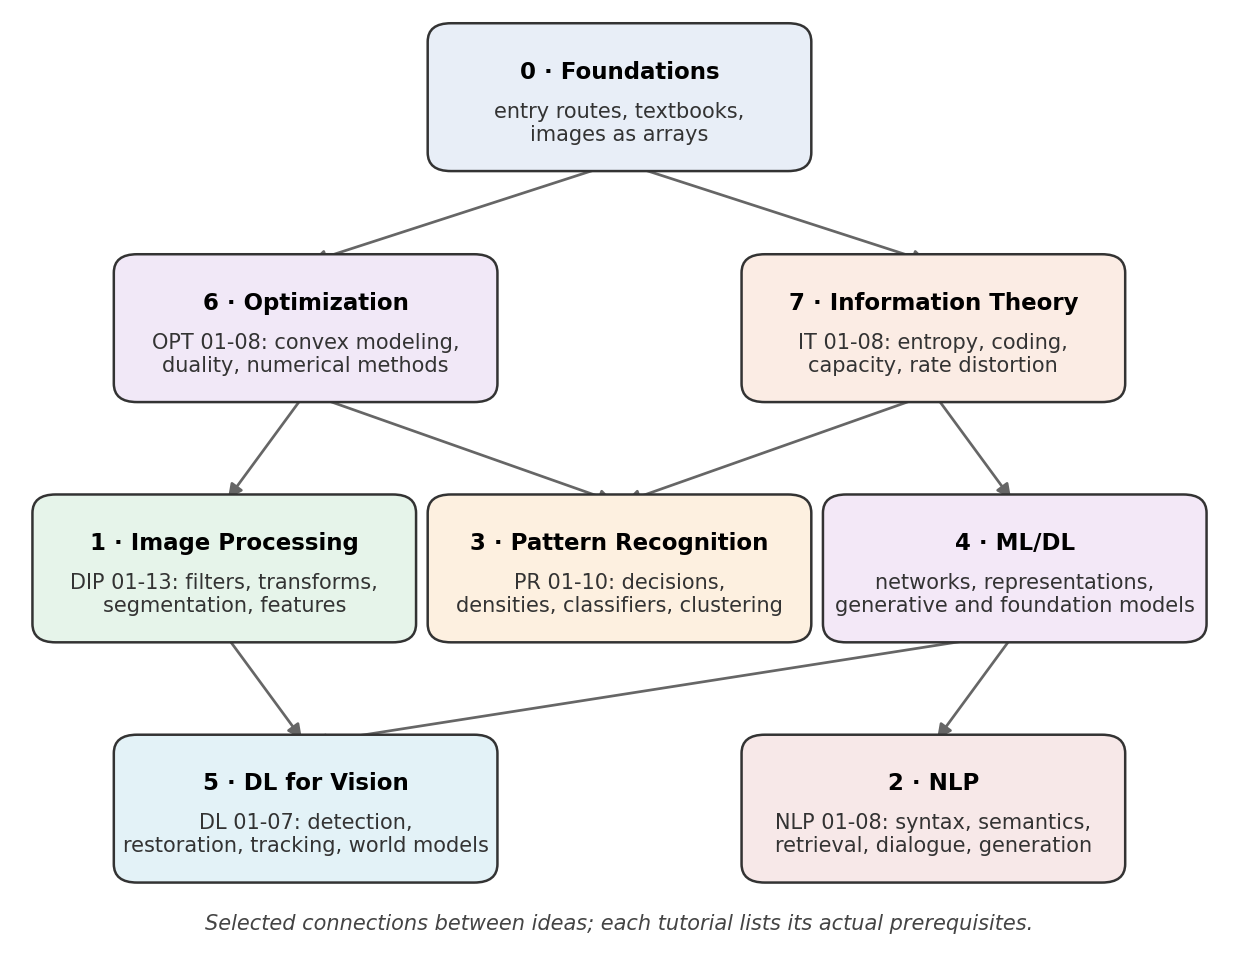
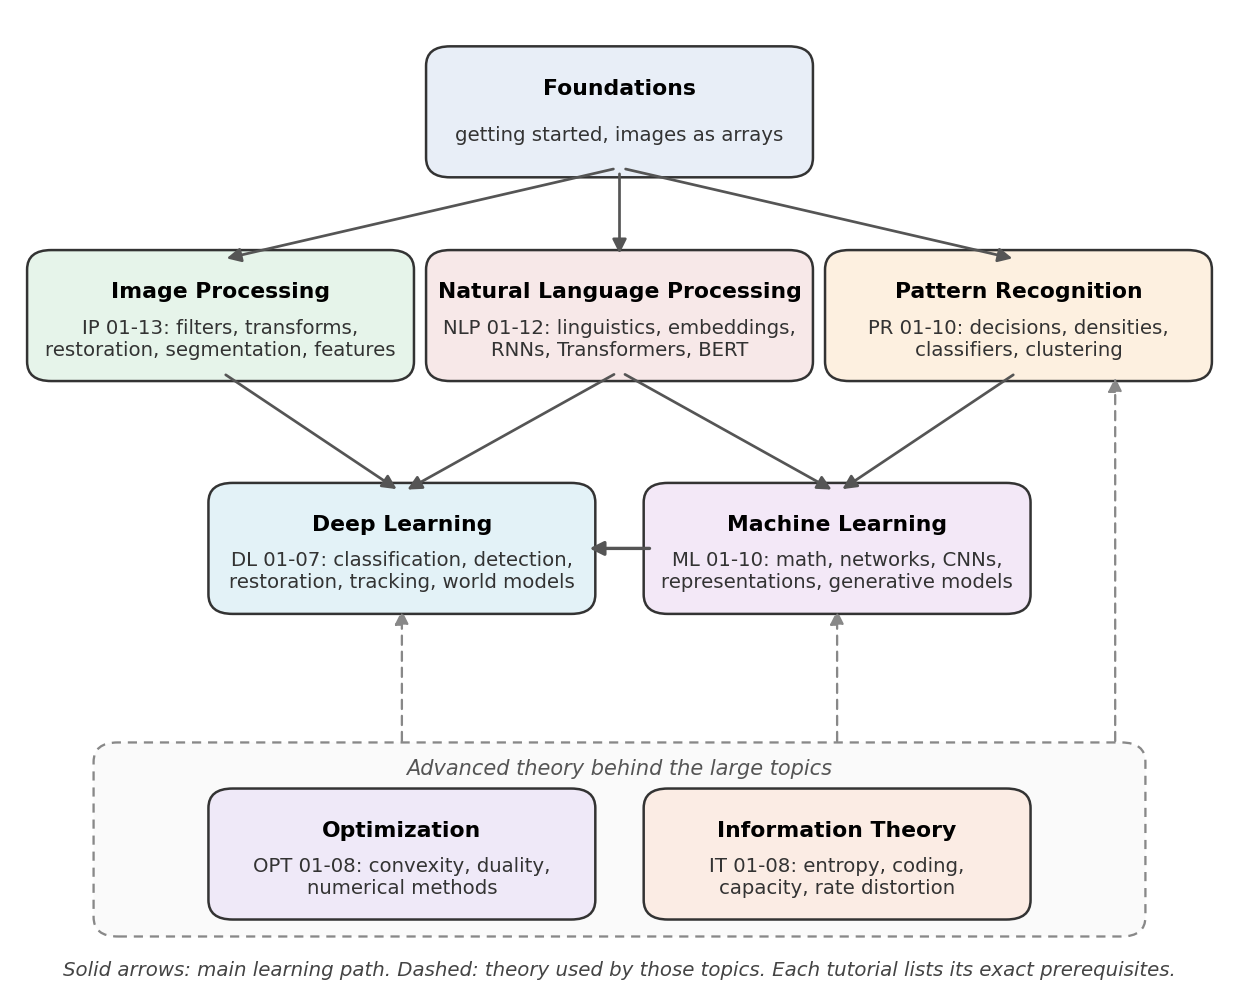
Redraw the track map and align track names
- Getting started: Figure 1 now reads in four layers (Foundations;
  entry tracks IP, NLP and PR; Machine Learning feeding Deep Learning;
  Optimization and Information Theory as the theory behind them). The
  track table, NLP row and language path match the new layout.
- Track labels are now "Machine Learning" and "Deep Learning"
  (機器學習 / 深度學習) instead of "ML/DL" and "DL for Vision".
- README and AGENTS.md describe the eight tracks and the IP/NLP/... NN
  naming rule.

Claude-Session: https://claude.ai/code/session_01YGujEGZkRxijPAC81SHt5G

Changed region(s): [[0.0, 0.0, 0.9814, 0.7303], [0.0613, 0.7303, 0.9508, 0.9738], [0.0613, 0.7912, 0.092, 0.8216]]

diff --git a/src/i18n/ui.ts b/src/i18n/ui.ts
@@ -25,8 +25,8 @@ const en = {
   'track.foundations': 'Foundations',
   'track.image-processing': 'Image Processing',
   'track.pattern-recognition': 'Pattern Recognition',
-  'track.ml': 'ML/DL',
-  'track.deep-learning': 'DL for Vision',
+  'track.ml': 'Machine Learning',
+  'track.deep-learning': 'Deep Learning',
   'track.nlp': 'NLP',
   'track.optimization': 'Optimization',
   'track.information-theory': 'Information Theory',
@@ -50,7 +50,7 @@ const en = {
   'blog.original': 'Originally published on',
   'blog.updated': 'Updated',
   'learn.title': 'Learn',
-  'learn.lede': 'Eight tracks covering foundations, image processing, language, pattern recognition, ML/DL, vision, optimization and information theory. Follow a track in order, or use the prerequisites to choose your starting point.',
+  'learn.lede': 'Eight tracks covering foundations, image processing, language, pattern recognition, machine learning, deep learning, optimization and information theory. Follow a track in order, or use the prerequisites to choose your starting point.',
   'playground.title': 'Playground',
   'playground.lede': 'Every interactive demo from the tutorials, in one place.',
   'search.title': 'Search',
@@ -82,8 +82,8 @@ const zhTw: Record<Key, string> = {
   'track.foundations': '基礎',
   'track.image-processing': '影像處理',
   'track.pattern-recognition': '圖形識別',
-  'track.ml': '機器學習／深度學習',
-  'track.deep-learning': '視覺深度學習',
+  'track.ml': '機器學習',
+  'track.deep-learning': '深度學習',
   'track.nlp': '自然語言處理',
   'track.optimization': '最佳化',
   'track.information-theory': '資訊理論',
@@ -107,7 +107,7 @@ const zhTw: Record<Key, string> = {
   'blog.original': '原文發表於',
   'blog.updated': '更新於',
   'learn.title': '學習',
-  'learn.lede': '八個單元涵蓋基礎、影像處理、語言、圖形識別、機器學習／深度學習、視覺、最佳化與資訊理論。可以依序閱讀，或依先備知識選擇起點。',
+  'learn.lede': '八個單元涵蓋基礎、影像處理、語言、圖形識別、機器學習、深度學習、最佳化與資訊理論。可以依序閱讀，或依先備知識選擇起點。',
   'playground.title': '互動實驗',
   'playground.lede': '所有教學中的互動示範，集中在這裡。',
   'search.title': '搜尋',

diff --git a/scripts/figures/getting_started_extra.py b/scripts/figures/getting_started_extra.py
@@ -1,4 +1,8 @@
 """Eight-track map for foundations/getting-started; synthetic original diagram.
+
+Layout: Foundations -> the three entry tracks (IP, NLP, PR) -> ML -> DL, with Optimization and
+Information Theory drawn underneath as the advanced theory that supports the large topics.
+
 Run: .venv/bin/python scripts/figures/getting_started_extra.py
 Writes only src/assets/foundations/getting-started/.
 """
@@ -11,34 +15,64 @@ from matplotlib.patches import FancyArrowPatch, FancyBboxPatch
 OUT = Path(__file__).resolve().parents[2] / "src/assets/foundations/getting-started"
 OUT.mkdir(parents=True, exist_ok=True)
 plt.rcParams.update({"font.size": 11})
+
+W, H = .30, .115
 BOXES = {
-    "found": ("0 · Foundations", "entry routes, textbooks,\nimages as arrays", .5, .91, "#e8eef7"),
-    "opt": ("6 · Optimization", "OPT 01-08: convex modeling,\nduality, numerical methods", .23, .66, "#f1e8f7"),
-    "it": ("7 · Information Theory", "IT 01-08: entropy, coding,\ncapacity, rate distortion", .77, .66, "#fbece4"),
-    "dip": ("1 · Image Processing", "DIP 01-13: filters, transforms,\nsegmentation, features", .16, .40, "#e6f4ea"),
-    "pr": ("3 · Pattern Recognition", "PR 01-10: decisions,\ndensities, classifiers, clustering", .5, .40, "#fdf0e0"),
-    "ml": ("4 · ML/DL", "networks, representations,\ngenerative and foundation models", .84, .40, "#f3e8f7"),
-    "dl": ("5 · DL for Vision", "DL 01-07: detection,\nrestoration, tracking, world models", .23, .14, "#e3f2f7"),
-    "nlp": ("2 · NLP", "NLP 01-08: syntax, semantics,\nretrieval, dialogue, generation", .77, .14, "#f7e8e8"),
+    "found": ("Foundations", "getting started, images as arrays", .50, .90, "#e8eef7"),
+    "ip": ("Image Processing", "IP 01-13: filters, transforms,\nrestoration, segmentation, features", .17, .69, "#e6f4ea"),
+    "nlp": ("Natural Language Processing", "NLP 01-12: linguistics, embeddings,\nRNNs, Transformers, BERT", .50, .69, "#f7e8e8"),
+    "pr": ("Pattern Recognition", "PR 01-10: decisions, densities,\nclassifiers, clustering", .83, .69, "#fdf0e0"),
+    "ml": ("Machine Learning", "ML 01-10: math, networks, CNNs,\nrepresentations, generative models", .68, .45, "#f3e8f7"),
+    "dl": ("Deep Learning", "DL 01-07: classification, detection,\nrestoration, tracking, world models", .32, .45, "#e3f2f7"),
+    "opt": ("Optimization", "OPT 01-08: convexity, duality,\nnumerical methods", .32, .135, "#efe9f8"),
+    "it": ("Information Theory", "IT 01-08: entropy, coding,\ncapacity, rate distortion", .68, .135, "#fbece4"),
 }
-EDGES = [("found", "opt"), ("found", "it"), ("opt", "dip"), ("opt", "pr"),
-         ("it", "pr"), ("it", "ml"), ("dip", "dl"), ("ml", "dl"), ("ml", "nlp")]
-W, H = .31, .14
-fig, ax = plt.subplots(figsize=(10.4, 8.0))
-ax.set(xlim=(-.02, 1.02), ylim=(0, 1))
+SOLID = [("found", "ip"), ("found", "nlp"), ("found", "pr"),
+         ("ip", "dl"), ("pr", "ml"), ("nlp", "ml"), ("nlp", "dl")]
+
+fig, ax = plt.subplots(figsize=(10.4, 8.4))
+ax.set(xlim=(0, 1), ylim=(0, 1))
 ax.axis("off")
-for a,b in EDGES:
-    xa,ya=BOXES[a][2:4]; xb,yb=BOXES[b][2:4]
-    ax.add_patch(FancyArrowPatch((xa,ya-H/2), (xb,yb+H/2), arrowstyle="-|>",
-                                mutation_scale=14, lw=1.3, color="#666666", shrinkA=3, shrinkB=3))
+
+
+def top(k):
+    return BOXES[k][2], BOXES[k][3] + H / 2
+
+
+def bottom(k):
+    return BOXES[k][2], BOXES[k][3] - H / 2
+
+
+def arrow(p, q, **kw):
+    ax.add_patch(FancyArrowPatch(p, q, arrowstyle="-|>", mutation_scale=14, shrinkA=3, shrinkB=3, zorder=3, **kw))
+
+
 for title, sub, x, y, colour in BOXES.values():
-    ax.add_patch(FancyBboxPatch((x-W/2,y-H/2),W,H,
-                               boxstyle="round,pad=0.01,rounding_size=0.02",
-                               fc=colour,ec="#333333",lw=1.2))
-    ax.text(x,y+.028,title,ha="center",va="center",weight="bold",fontsize=11)
-    ax.text(x,y-.027,sub,ha="center",va="center",fontsize=10,color="#333333")
-ax.text(.5,.005,"Selected connections between ideas; each tutorial lists its actual prerequisites.",
-        ha="center",va="bottom",fontsize=10,style="italic",color="#444444")
+    ax.add_patch(FancyBboxPatch((x - W / 2, y - H / 2), W, H, boxstyle="round,pad=0.01,rounding_size=0.02",
+                                fc=colour, ec="#333333", lw=1.2))
+    ax.text(x, y + .024, title, ha="center", va="center", weight="bold", fontsize=10.5)
+    ax.text(x, y - .024, sub, ha="center", va="center", fontsize=9.5, color="#333333")
+
+for a, b in SOLID:
+    arrow(bottom(a), top(b), lw=1.3, color="#555555")
+# ML -> DL, side by side (ML on the right feeds DL on the left).
+arrow((BOXES["ml"][2] - W / 2, BOXES["ml"][3]), (BOXES["dl"][2] + W / 2, BOXES["dl"][3]), lw=1.6, color="#555555")
+
+# Theory band: a dashed container around OPT and IT, supporting the large topics above.
+band_y0, band_y1 = .055, .245
+ax.add_patch(FancyBboxPatch((.07, band_y0), .86, band_y1 - band_y0, boxstyle="round,pad=0.005,rounding_size=0.02",
+                            fc="#fafafa", ec="#888888", lw=1.1, ls=(0, (4, 3)), zorder=0.5))
+ax.text(.5, band_y1 - .012, "Advanced theory behind the large topics", ha="center", va="top",
+        fontsize=10, style="italic", color="#555555")
+for target, x in [("dl", .32), ("ml", .68)]:
+    arrow((x, band_y1), bottom(target), lw=1.1, color="#888888", ls=(0, (4, 3)))
+arrow((.91, band_y1), (.91, BOXES["pr"][3] - H / 2), lw=1.1, color="#888888", ls=(0, (4, 3)))
+
+
+
+ax.text(.5, .005, "Solid arrows: main learning path. Dashed: theory used by those topics. "
+        "Each tutorial lists its exact prerequisites.", ha="center", va="bottom", fontsize=9.5,
+        style="italic", color="#444444")
 fig.savefig(OUT / "track-map.png", dpi=150, bbox_inches="tight", facecolor="white")
 plt.close(fig)
 print("wrote", OUT / "track-map.png")

diff --git a/README.md b/README.md
@@ -16,14 +16,14 @@ The curriculum has eight tracks in English and Traditional Chinese. Start with
 
 | Track | Coverage |
 | --- | --- |
-| 0 · Foundations | Entry paths, textbook selection, and images as arrays |
-| 1 · Image Processing | The existing DIP sequence, from intensity transforms to pattern classification |
-| 2 · NLP | Eight chapters based on Hagiwara and McRoy: applications, classification, syntax, semantics, language models, retrieval, dialogue, generation and deployment |
-| 3 · Pattern Recognition | A complete course based on Theodoridis/Koutroumbas, *Pattern Recognition* (4th ed.), and Bishop, *Pattern Recognition and Machine Learning* |
-| 4 · ML/DL | ML basics; linear algebra; probability/information; numerical computation; feedforward, convolutional, recurrent and recursive networks; selective state-space models and visual Mamba; transformers; representation learning; factor models and autoencoders; VAEs/GANs/flows; diffusion/flow matching, JiT and representation autoencoders; pretrained image/video generators; autoregression; foundation models; evaluation/deployment |
-| 5 · DL for Vision | Classification, detection, restoration, low-light enhancement, tracking, and world models |
-| 6 · Optimization | Eight chapters based on Boyd and Vandenberghe: convex sets/functions, problem formulation, duality, estimation, gradient/Newton methods, constrained solvers and applications |
-| 7 · Information Theory | Eight chapters based on Cover and Thomas: entropy, typicality, source coding, channel capacity, Gaussian channels, rate distortion, statistical decisions and networks |
+| Foundations (start) | Entry paths, textbook selection, and images as arrays |
+| Image Processing (IP 01–13, entry) | Thirteen tutorials following the chapter order of Gonzalez & Woods, from intensity transforms to pattern classification |
+| Natural Language Processing (NLP 01–12, entry) | Twelve tutorials following the course syllabus: introduction, linguistic essentials, neural networks for NLP, lexical semantics and word embeddings, RNNs, sequence labeling (POS tagging, information extraction), attention and Transformers, seq2seq (machine translation, chatbots), language modeling and generation, BERT, classification with BERT (sentiment, NLI), and syntactic and semantic tasks |
+| Pattern Recognition (PR 01–10, entry) | A complete course based on Theodoridis/Koutroumbas, *Pattern Recognition* (4th ed.), and Bishop, *Pattern Recognition and Machine Learning* |
+| Machine Learning (ML 01–10, core) | ML basics; linear algebra; probability/information; numerical computation; feedforward, convolutional, recurrent and recursive networks; selective state-space models and visual Mamba; transformers; representation learning; factor models and autoencoders; VAEs/GANs/flows; diffusion/flow matching, JiT and representation autoencoders; pretrained image/video generators; autoregression; foundation models; evaluation/deployment |
+| Deep Learning (DL 01–07, core) | Classification, detection, restoration, low-light enhancement, tracking, and world models |
+| Optimization (OPT 01–08, theory) | Eight chapters based on Boyd and Vandenberghe: convex sets/functions, problem formulation, duality, estimation, gradient/Newton methods, constrained solvers and applications |
+| Information Theory (IT 01–08, theory) | Eight chapters based on Cover and Thomas: entropy, typicality, source coding, channel capacity, Gaussian channels, rate distortion, statistical decisions and networks |
 
 ML 03 incorporates the former **Convolution & Image Filtering** tutorial, including its
 interactive kernel and image comparison demos. The old English and Chinese URLs

diff --git a/AGENTS.md b/AGENTS.md
@@ -75,7 +75,7 @@ data, metrics, datasets/benchmarks, failure modes) but still open each section i
 
 **Frontmatter** (validated by `src/content.config.ts`):
 ```yaml
-title: "..."            # same numbering scheme as the rest of the track
+title: "..."            # "<PREFIX> NN · Title" / zh-tw "<PREFIX> NN・標題" (IP, PR, ML, DL, NLP, OPT, IT)
 description: "..."      # one sentence
 track: <track>
 order: <int>            # position in the track
@@ -101,6 +101,10 @@ the PNG with a Chinese caption. Show figures with `<Figure src={img} alt="..." c
 **Components** (`src/components/`): `Callout`, `Figure`, `ImageCompare` (before/after slider, two
 same-size images), `KernelPlayground` (live 3×3 kernel; `lang="zh-tw"` on Chinese pages). Use them
 only where they teach.
+
+**Titles and link text:** tutorials are named by track prefix and two-digit number, e.g. `IP 05`,
+`ML 03a`, `DL 04` — never "Chapter 5" / "第 5 章" (the image-processing series follows a textbook's
+chapter order, but the site calls them IP 01–13). Link text to a tutorial uses the same name.
 
 **Links:** internal links are absolute with a trailing slash, e.g.
 `/en/learn/image-processing/dip-05-restoration-reconstruction/`; the target must exist. When you
